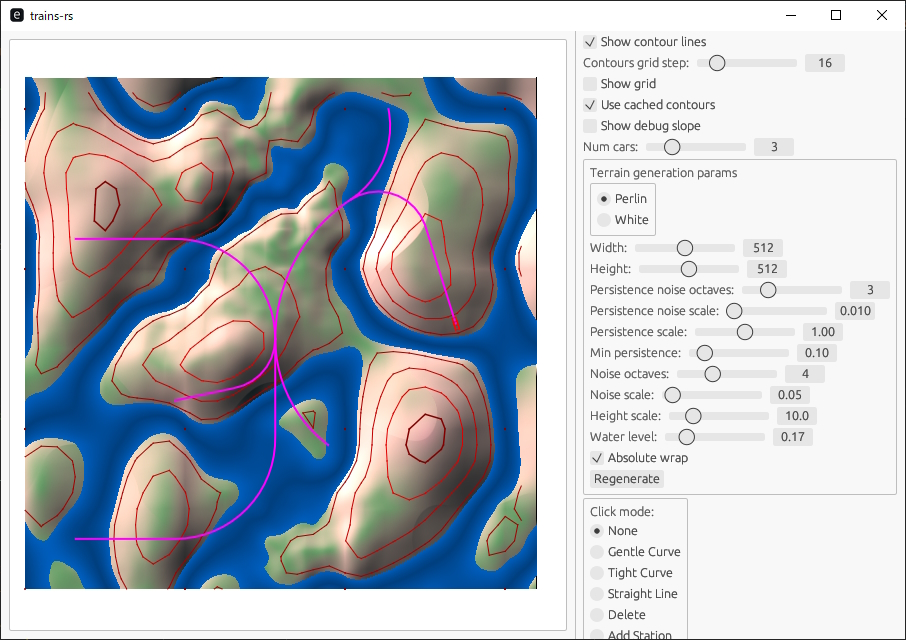
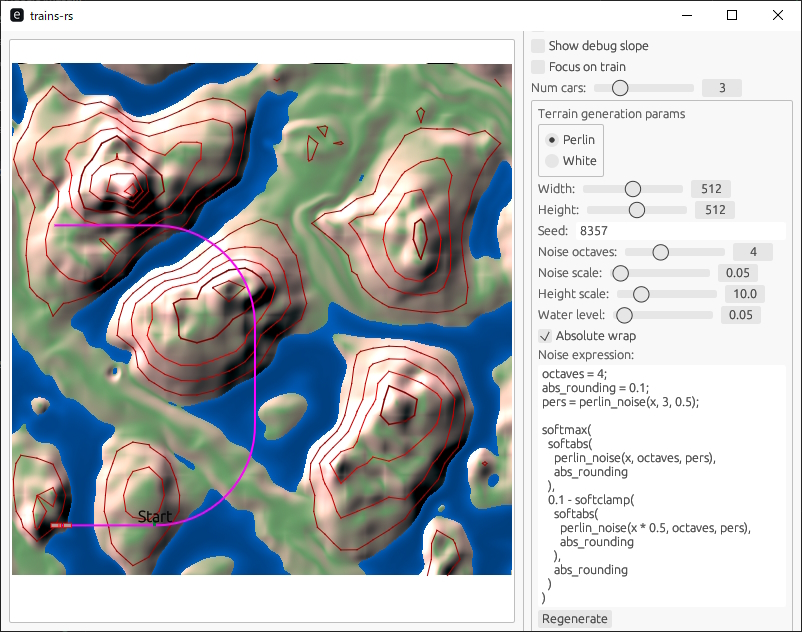
Add description of noise expression in README.md
Also added `vec2`, `x` and `y` built-in functions for noise expression.

diff --git a/src/app/heightmap/noise_expr.rs b/src/app/heightmap/noise_expr.rs
@@ -214,6 +214,27 @@ fn eval(expr: &Expr, x: &Vec2<f64>, variables: &HashMap<String, Value>) -> Resul
 
 fn eval_fn(name: &str, args: &[Value], fn_ctx: Option<&FnContext>) -> Result<Value, String> {
     Ok(match name as &str {
+        "vec2" => {
+            if let Some([Value::Scalar(x), Value::Scalar(y)]) = args.get(..2) {
+                Value::Vec2(Vec2::new(*x, *y))
+            } else {
+                return Err("vec2 only supports 2 scalar arguments".to_string());
+            }
+        }
+        "x" => {
+            if let Some(Value::Vec2(vec)) = args.get(0) {
+                Value::Scalar(vec.x)
+            } else {
+                return Err("x only supports 1 vector argument".to_string());
+            }
+        }
+        "y" => {
+            if let Some(Value::Vec2(vec)) = args.get(0) {
+                Value::Scalar(vec.y)
+            } else {
+                return Err("y only supports 1 vector argument".to_string());
+            }
+        }
         "softclamp" => {
             if let Some([Value::Scalar(val), Value::Scalar(max)]) = args.get(..2) {
                 Value::Scalar(softclamp(*val, *max))

diff --git a/README.md b/README.md
@@ -10,3 +10,94 @@ Install Rust.
 
 Run `cargo r`
 
+## Terrain generation and noise expression
+
+We use a concept called noise expression to generate terrain procedurally.
+A noise expression is kind of a mini-programming language that has very limited features but designed to be concise
+to describe a noise function.
+It is an idea stolen from Factorio.
+
+Notable features:
+
+* It allows very highly customizable terrain generation logic with quick test iterations,
+  since you do not need to recompile the executable to try new logic.
+* Some expensive functions are provided as built-in functions, so that the scripting interpreter does not need to run
+  them in the inefficient scripting runtime.
+
+An example of a noise expression is like below.
+
+```
+octaves = 4;
+abs_rounding = 0.1;
+pers = perlin_noise(x, 3, 0.5);
+
+softmax(
+  softabs(
+    perlin_noise(x, octaves, pers),
+    abs_rounding
+  ),
+  0.1 - softclamp(
+    softabs(
+      perlin_noise(x * 0.5, octaves, pers),
+      abs_rounding
+    ),
+    abs_rounding
+  )
+)
+```
+
+It is called noise _expression_, but it can have variables and constants defined in statements.
+
+Since it is a programming language, we describe its specification here.
+
+### Data types
+
+This language has 2 types:
+
+* `Scalar` - a f64 value.
+* `Vec2` - a vector of f64 with 2 elements. used to pass a position in the terrain.
+
+The language is dynamically typed, it does not check type correctness until runtime.
+
+### Variable definition statements
+
+An assignment to an identifier followed by a semicolon is a variable definition statement.
+
+```
+a = 1;
+```
+
+It can have expression on right hand side.
+You can use other variables that were defined up to this point.
+
+```
+a = 1;
+b = a * 2;
+```
+
+### Expressions
+
+An expression can contain arithmetics (`+`, `-`, `*` and `/`), parentheses and function calls.
+For example, the string below is an expression.
+
+```
+((a + 1) * b) - f(2)
+```
+
+Any expression that does not depend on the value of `x` is a constant expression.
+The distinction of constant expression is important for `perlin_noise` and `white_noise`
+functions.
+
+### Built-in functions
+
+You cannot define your own functions (therefore, this language is not Turing complete).
+You can use one of the following built-in functions.
+
+* `vec2(x, y)` - a constructor for `Vec2` type. `x` and `y` must be scalars.
+* `x(x)` - a getter function to extract `x` component of a vector. Errors when applied to a scalar.
+* `y(x)` - a getter function, similar to `x()`, but for `y` component.
+* `softclamp(x, max)` - a function that behaves like identity function in small `x`,  but converges asymptotically to `max` in a great `x`. You can use this function to limit a certain value, but with smooth saturation curve instead of sudden step.
+* `softabs(x, rounding)` - a function that acts like the `abs` function in a great `x`, but acts like a quadratic function in a smaller `x` than `rounding`.
+* `softmax(a, b)` - a function that acts like `max` if either `a` or `b` is much greater than the other, but behaves like an average when their values are similar.
+* `perlin_noise(x, octaves, persistence)` - A [Perlin noise](https://en.wikipedia.org/wiki/Perlin_noise) with [fractal Brownian motion](https://en.wikipedia.org/wiki/Fractional_Brownian_motion) compositions. It is relatively expensive operation, so the composition of multiple octaves are implemented in the runtime. `x` is the input value of type `Vec2`, `octaves` is the number of octaves to add in fBm noise whose fractional part is truncated and casted to an integer, and `persistence` is the factor multiplied to each successive octave. One notable thing about this function is that `octaves` has to be a constant expression, because it caches the state variables to generate many values from different `x`.
+* `white_noise(x, octaves, persistence)` - A noise function similar to `perlin_noise`, but uses uniform noise as the base noise instead of Perlin noise. It can still show locality and natural looking features if you use many octaves.
